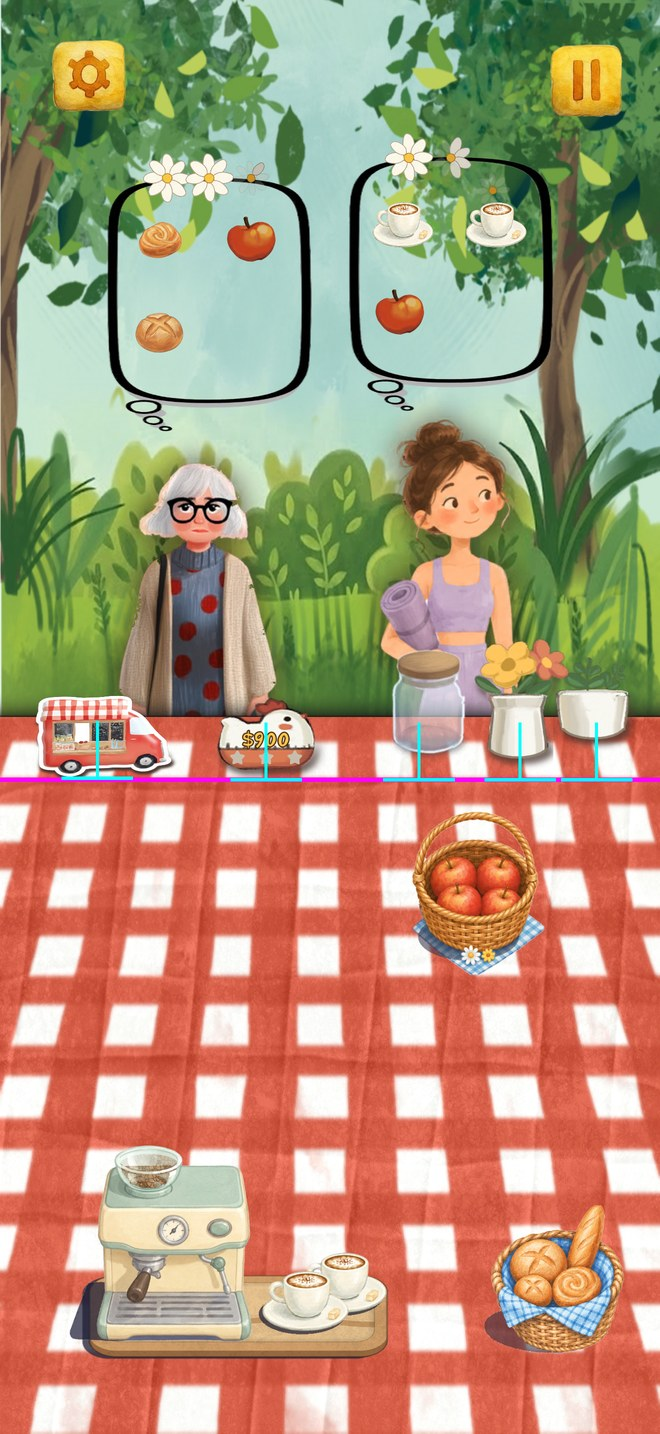
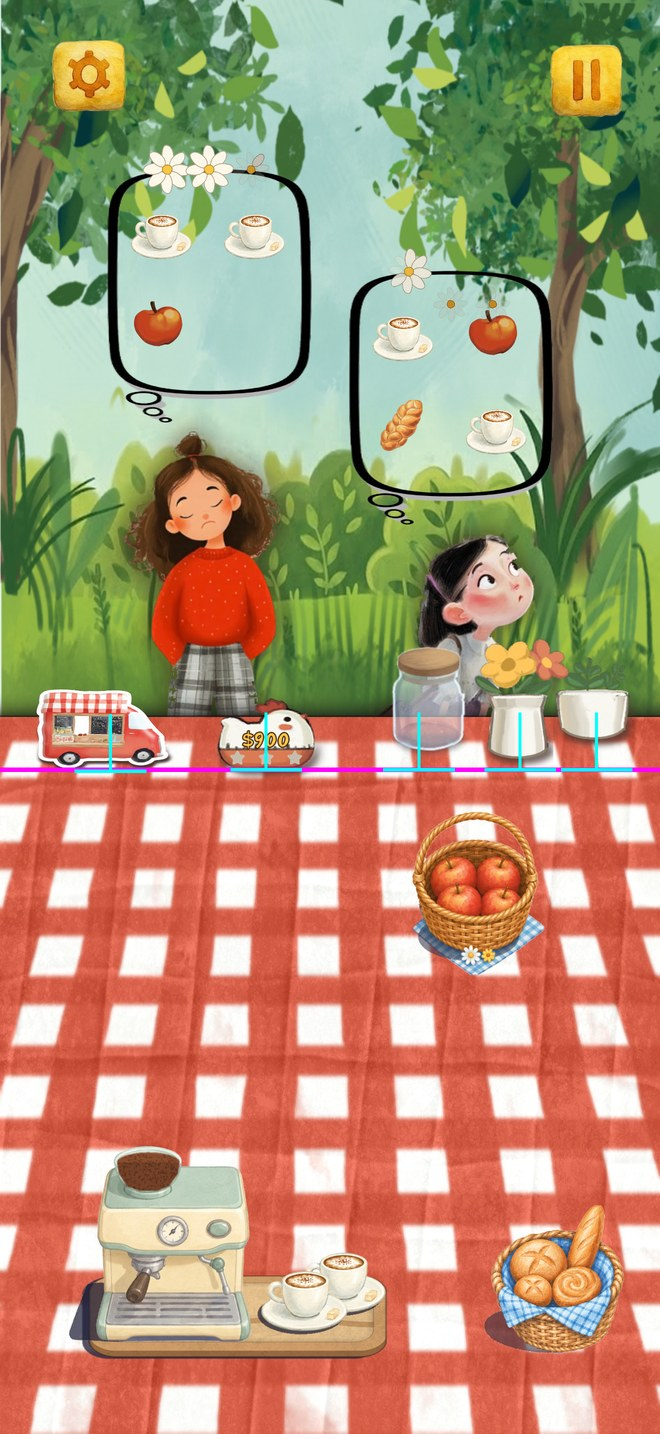
Report: solid-row bottoms, wand into the cup, beans under glass

diff --git a/Docs/tools/report_page/index.html b/Docs/tools/report_page/index.html
@@ -105,7 +105,7 @@ h3 small{font-weight:600;color:var(--soft);font-size:13px;margin-left:6px}
 <h2 id="current"><span class="n">3</span>Current</h2>
 
 <div class="card">
-<p style="margin-top:0"><b>Back row bottoms, whole screen, 10 November.</b> Measured from the sprite content now, not the image: the game reads each sprite's pixels and takes its lowest painted row, no spacing numbers typed by hand. The pink line is the flower pot's lowest painted row; each cyan post is that item's own. Truck, hen board, jar, both pots: on the line (the truck breathes a few pixels with its wobble).</p>
+<p style="margin-top:0"><b>Back row bottoms, whole screen, 10 November.</b> Measured from the sprite content now, not the image: the game reads each sprite's pixels and takes its lowest solid row (every one of these sprites has a soft shadow fringe fading out below the object, which the eye does not read as the bottom, so faint rows do not count). No spacing numbers typed by hand. The pink line is the flower pot's lowest painted row; each cyan post is that item's own. Truck, hen board, jar, both pots: on the line (the truck breathes a few pixels with its wobble).</p>
 <figure><img src="back_row_full.jpg" alt="The whole table screen with the pink bottom line and a cyan post on each back-row item" style="max-height:620px"></figure>
 <ul class="checks">
 <li><label><input type="checkbox" data-id="cur.rowfull.seen"> Seen, remove this</label></li>
@@ -119,7 +119,7 @@ h3 small{font-weight:600;color:var(--soft);font-size:13px;margin-left:6px}
 </ul>
 </div>
 <div class="card">
-<p style="margin-top:0"><b>Coffee machine, 10 November.</b> Your previous bean sprites are back, drawn at full strength. The pours are done the way your old frames did them: a thick straight dark bar from each spout straight down into the cup, to the coffee when the cup is full, into the mouth when it is empty. The latte cup is lifted under the steam wand so the tip sits in its mouth with the puff at the milk, in all four wand frames.</p>
+<p style="margin-top:0"><b>Coffee machine, 10 November.</b> Your previous bean sprites, set inside the bowl: the bowl's glass front is laid over them so they sit between back and front. The pours the way your old frames did them: a thick straight dark bar from each spout straight down to the cup's bottom. All cups stay on the tray line; the steam wand is lengthened instead, so its tip reaches into the latte cup, in front of the cup, with the puff at the milk.</p>
 <figure><img src="machine_in_game.jpg" alt="The machine on the table in the tutorial with beans inside the bowl" style="max-height:300px"><figcaption>In the tutorial now.</figcaption></figure>
 <figure><img src="coffee_beans.jpg" alt="The bean container at fill levels 0 to 6" style="max-height:200px"><figcaption>Bean levels 0 to 6, your sprites.</figcaption></figure>
 <figure><img src="coffee_stream.jpg" alt="The four coffee frames and three wand frames, close up"><figcaption>The pours and the wand cup, close up.</figcaption></figure>
